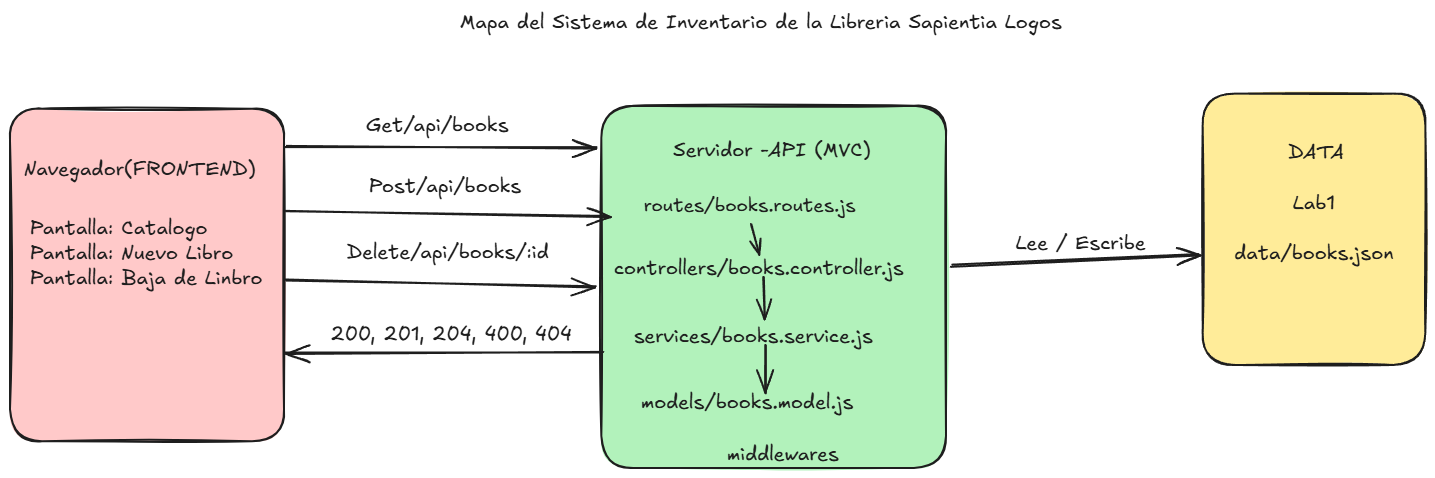
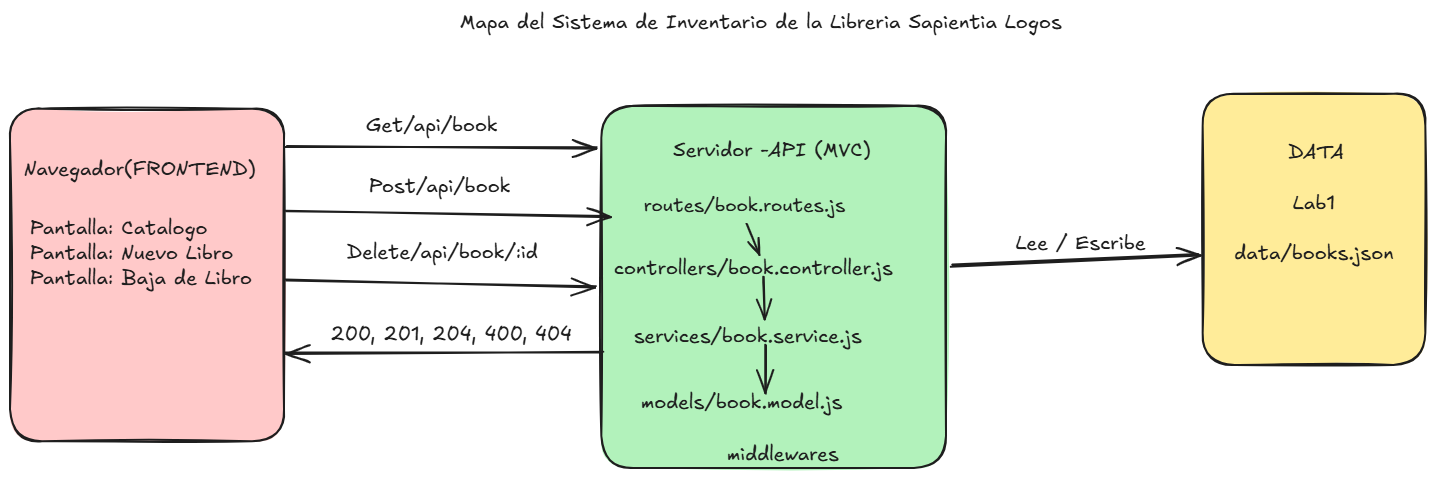
Ajustes finales del Readme y del mapa del sistema

diff --git a/README.md b/README.md
@@ -12,14 +12,16 @@
 | Repositorio | https://github.com/joseanxs/G03_Lab1_Libreria.git |
 
 ## Cómo ejecutar
-### 1. src/ (API REST en Express)
+
+### 1. API REST en Express (src/  -> carpeta principal del proyecto)
+
 ```bash
 npm install
 cp .env.example .env      # en Windows: copy .env.example .env
 npm run dev               # http://localhost:3000 o puerto asignado
 ```
 
-Importa en Postman `postman/GXX_Lab1.postman_collection.json` y ejecuta **Run collection**.
+Importa en Postman `postman/G03_Lab1.postman_collection.json` y ejecuta **Run collection**.
 
 ### 2. client/ (Usando React con Vite)
 
@@ -30,7 +32,6 @@ npm run dev
 ```
 Credenciales de prueba (precargadas): admin@espe.edu.ec / admin
 
-Documentación arquitectónica del cliente: Consultar client/GUIA_SCRIPTS.md.
 
 ### Estructura MVC en capas
 
@@ -88,14 +89,17 @@ Flujo de una petición: **ruta → controlador → servicio → modelo** y de vu
 |---|---|---|
 | **Jose Reinoso** | Integrante 1: El Arquitecto (Propuesta, Modelo y Validaciones) | • **Documentación base**: Llenado completo de la información del emprendimiento en `PROPUESTA.md` (problema, funciones, 3 entidades).<br>• **Base de datos JSON**: Estructuración del archivo `data/books.json` con los registros iniciales.<br>• **Modelo**: Configuración del arreglo `FIELDS` en `src/models/book.model.js` con los campos obligatorios (`id`, `author`, `title`, `price`, `available`).<br>• **Reglas de negocio**: Programación de la función `validate()` en `src/services/book.service.js` con las validaciones requeridas (`title` y `price`).<br>• **Cierre documental**: Completado inicial de `README.md` con tabla de endpoints y estructura general. |
 | **Yostin Sisalema** | Integrante 2: El Motor de la API (Servicio, Controlador y Rutas) | • **Renombrar y enrutar**: Renombrado de archivos a la entidad `book` en `src/` y montaje de la ruta base `/books` en `src/routes/index.js`.<br>• **Capa de Servicio**: Implementación de las funciones `create`, `update` y `remove` en `src/services/book.service.js` para persistencia en JSON, autoincremento de ID y lanzamiento de error 404.<br>• **Capa de Controlador**: Implementación de `create` (201), `update` (200) y `remove` (204) en `src/controllers/book.controller.js` delegando errores a `next(err)`.<br>• **Capa de Rutas**: Conexión de verbos y rutas relativas (`POST /`, `PUT /:id`, `DELETE /:id`) en `src/routes/book.routes.js`. |
-| **Frank Alvarado** | Integrante 3: Control de Calidad (Middlewares, Postman y Empaquetado) | • **Middlewares**: Configuración y revisión de `logger.js` (registro de método, ruta y hora en consola) y `errorHandler.js` / `notFound.js` (captura de errores 400, 404, 500).<br>• **Pruebas en Postman**: Ajuste de la colección `postman/GXX_Lab1.postman_collection.json` con las peticiones de `/api/books`, ejecución de *Run Collection* y verificación de pruebas en verde.<br>• **Evidencias y Empaquetado**: Captura de registros del logger (`evidencias/logger.png`), capturas de ejecución de Postman (`evidencias/postman-run.png`), exportación de colección v2.1 y preparación del ZIP final para entrega. |
+| **Frank Alvarado** | Integrante 3: Control de Calidad (Middlewares, Postman y Empaquetado) | • **Middlewares**: Configuración y revisión de `logger.js` (registro de método, ruta y hora en consola) y `errorHandler.js` / `notFound.js` (captura de errores 400, 404, 500).<br>• **Pruebas en Postman**: Ajuste de la colección `postman/G03_Lab1.postman_collection.json` con las peticiones de `/api/books`, ejecución de *Run Collection* y verificación de pruebas en verde.<br>• **Evidencias y Empaquetado**: Captura de registros del logger (`evidencias/logger.png`), capturas de ejecución de Postman (`evidencias/postman-run.png`), exportación de colección v2.1 y preparación del ZIP final para entrega. |
 
 ### Nota Adiccional: Sobre el desarrollo del /client
 
-Sobre el desarrollo del /client nos reunimos en live Server para organizarnos en el diseno, como usamos React, un framework para crear interfaces de usuario, nos enfocamos en disenar y estructurar los componentes de la interfaz de usuario, para ello nos ayudamos del diagrama [GUIA_SCRIPTS.md](GUIA_SCRIPTS.md) para guiarnos en el desarrollo del cliente. Como se muestra en la imagen [Diseño del sistema](diseno_visual.png), donde se muestra la estructura de componentes y como se conectan entre si. Algo por anadir usamos el template de este repositorio: https://github.com/satnaing/shadcn-admin.
+Con respecto al desarrollo del /client, realizamos una reunión en Live Server para coordinar el diseño. Al trabajar con React (un framework para el desarrollo de interfaces de usuario), nuestro enfoque principal fue estructurar y diseñar los componentes de la interfaz. En este proceso, empleamos el diagrama del [Mapa del sistema](mapa_G03_Lab1.png) como guía para el desarrollo del cliente. La estructura de estos componentes y sus conexiones mutuas se pueden apreciar en la imagen [Diseño del sistema](diseno_visual.png). Por último, cabe añadir que implementamos la plantilla del repositorio shadcn-admin.
 
 ## Declaración de uso de IA
 
 - Herramientas: Plataformas web Gemini y Claude.
-- Para qué la usamos: 1. Para depurar y corregir errores en el código. 2. Para reforzar conceptos sobre los temas de arquitectura en capas vistos en clase. 3. Para consultar ejemplos de sintaxis en JavaScript y estructuración de componentes en librerías como React, utilizándolos como referencia.
+- Para qué la usamos: 
+    -- Para depurar y corregir errores en el código. 
+    -- Para reforzar conceptos sobre los temas de arquitectura en capas vistos en clase. 
+    -- Para consultar ejemplos de sintaxis en JavaScript y estructuración de componentes en librerías como React, utilizándolos como referencia. 
 - Qué verificamos o corregimos nosotros: Lógica de negocio de la entidad `book`, nombres y tipos de atributos en `data/books.json`, validación de datos para evitar IDs repetidos y asegurar que los campos obligatorios estén completos y sean coherentes, enrutamiento relativo sin duplicación de prefijos `/books`, manejo de los 4 estados de interfaz en client/, y verificación de peticiones `POST`, `PUT` y `DELETE` en Postman.
